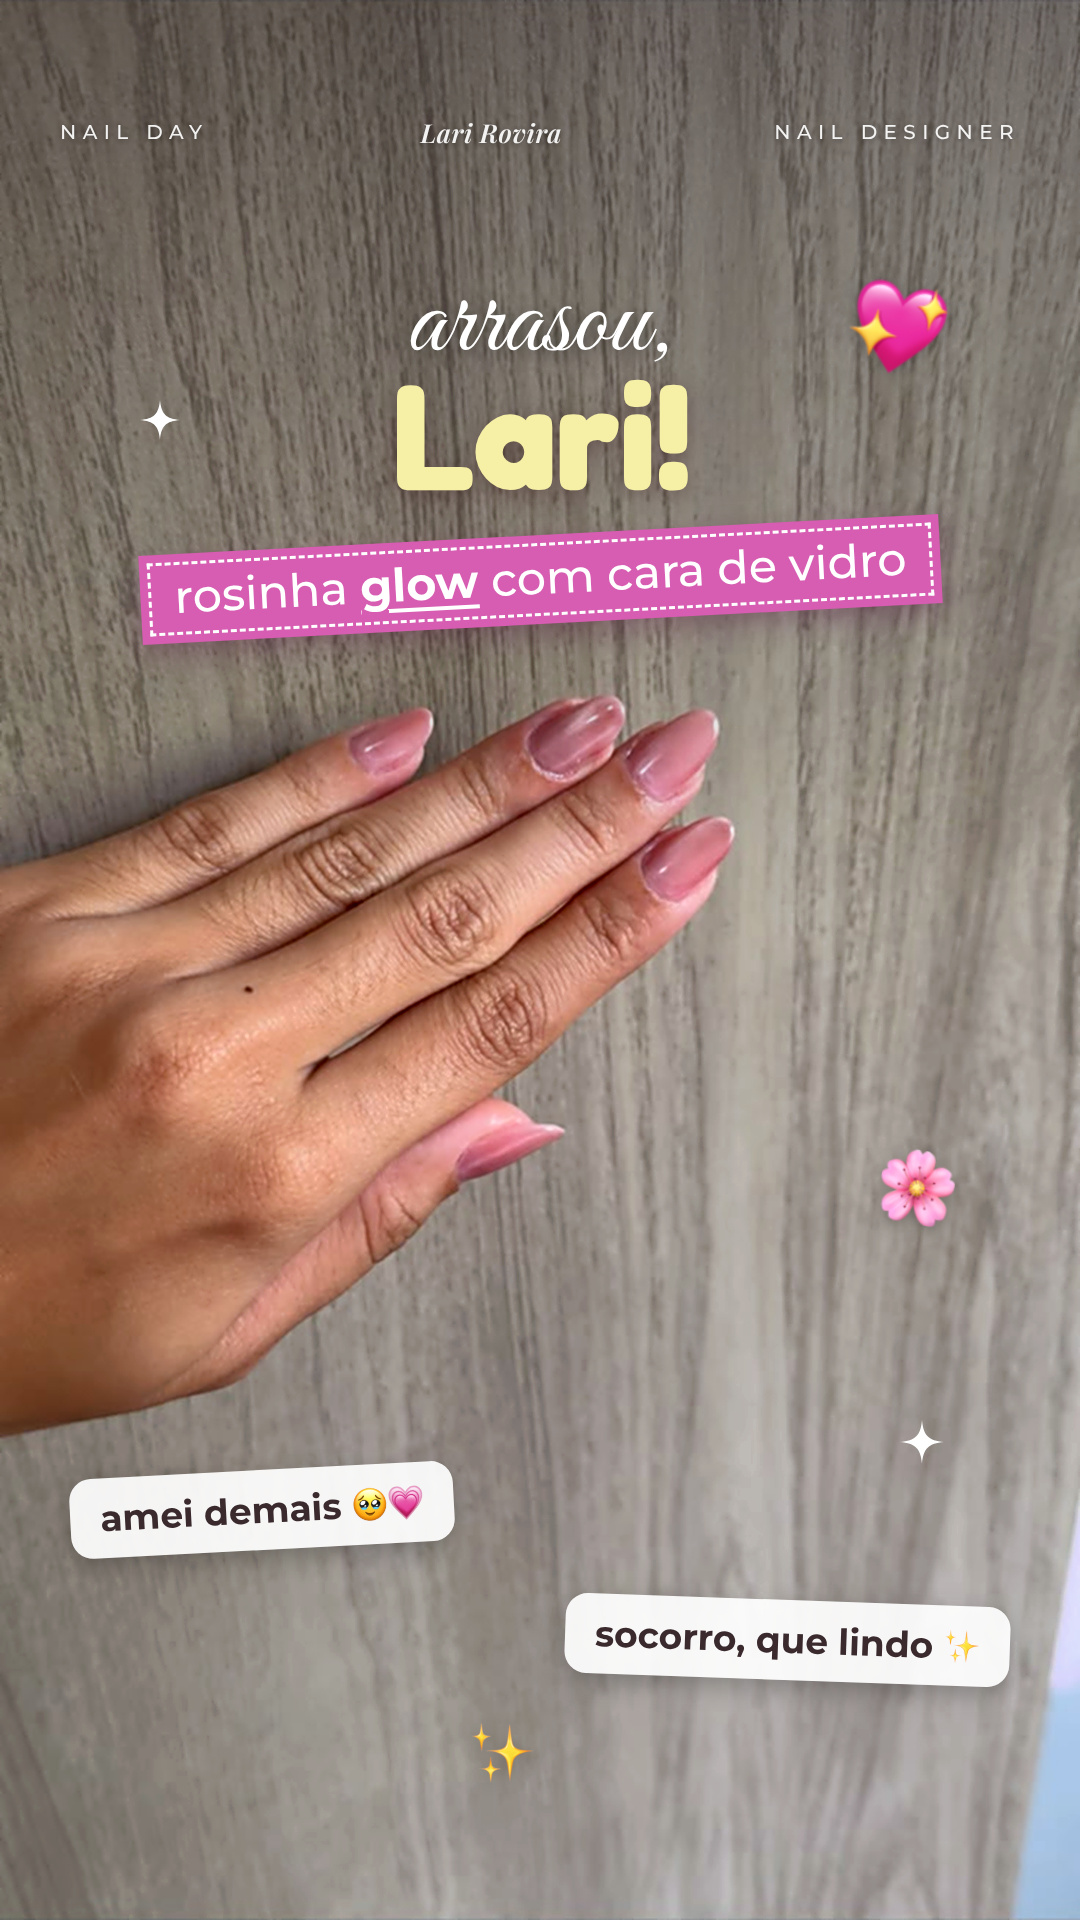
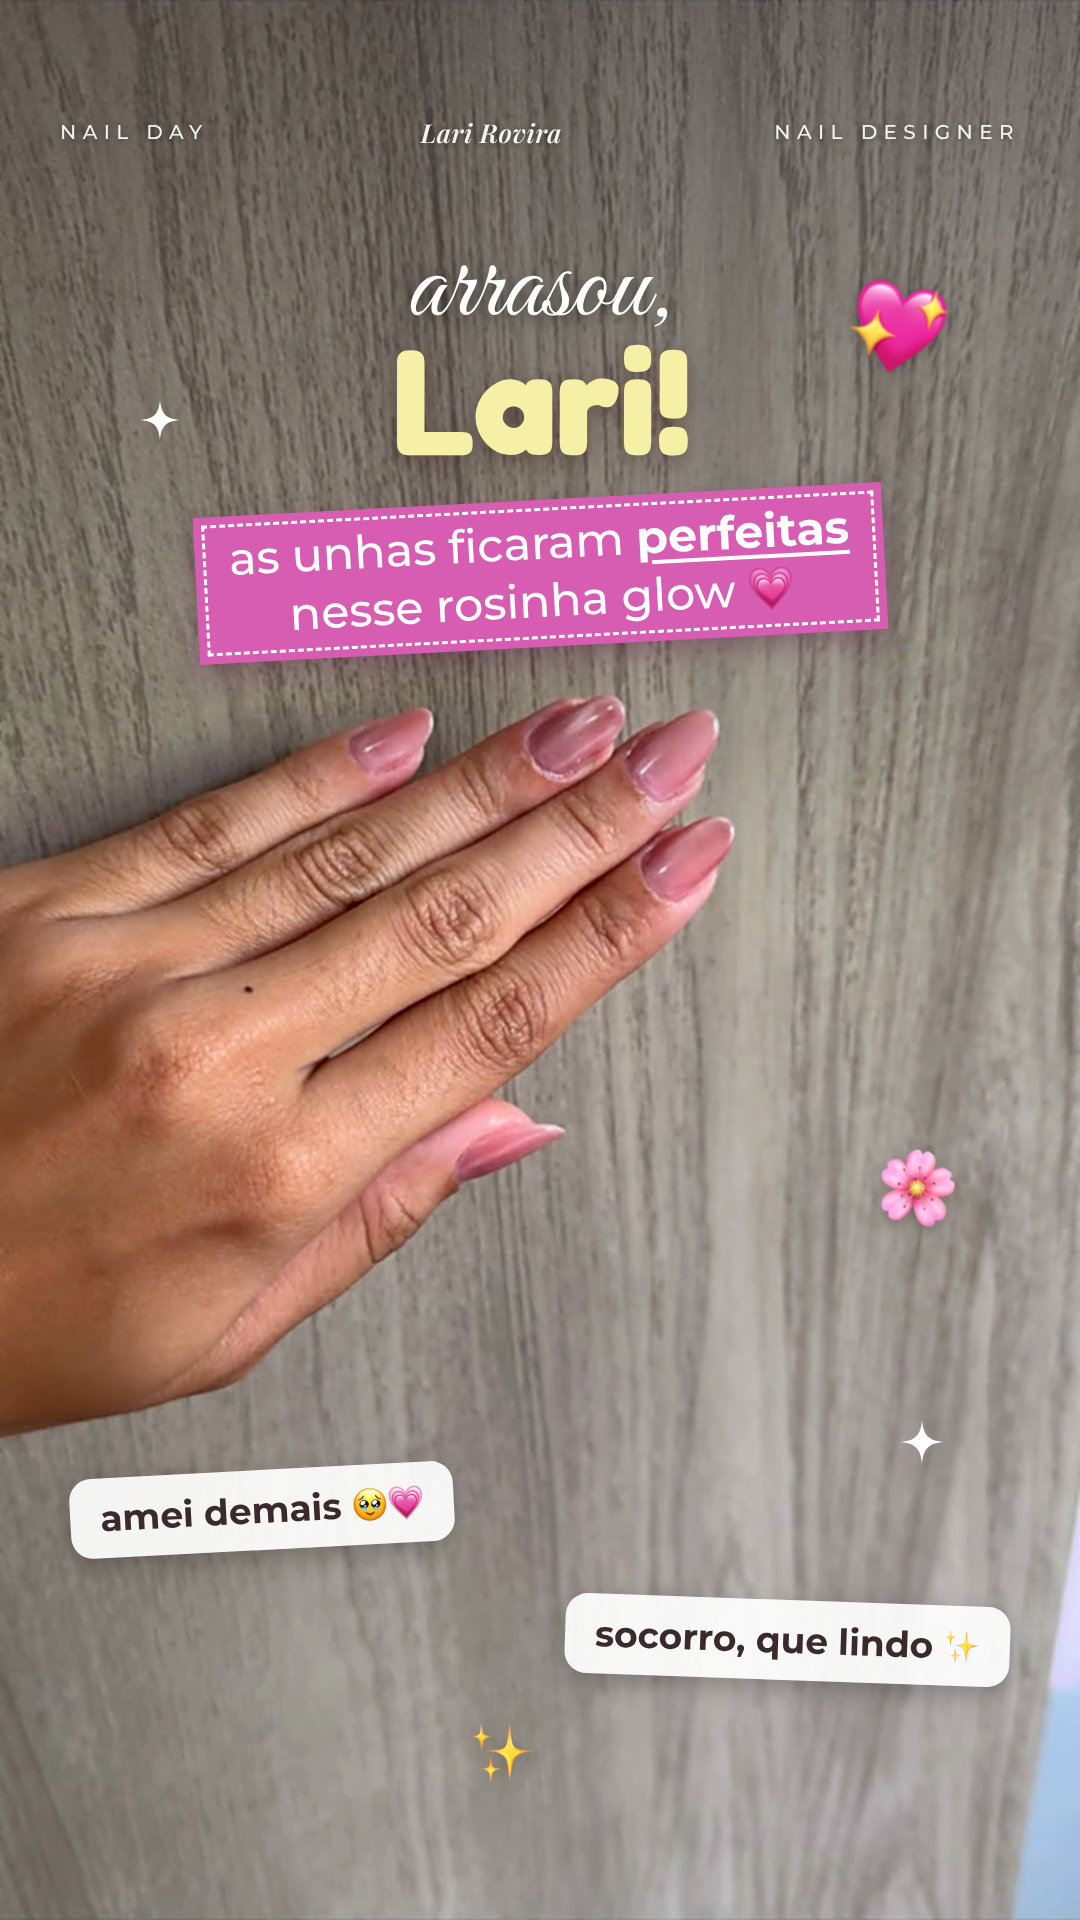
Stories da Lari: 'em processo...' nos stories 3 e 4 e nova frase no final
Claude-Session: https://claude.ai/code/session_01RGHwyEMisYcbWxENQ6sEk7

Changed region(s): [[0.1222, 0.125, 0.8861, 0.3438]]

diff --git a/stories/lari-nail-day/fonte/stories.html b/stories/lari-nail-day/fonte/stories.html
@@ -25,5 +25,7 @@ body{background:#111}
 .chip i{font-style:normal;color:#D65DB1}
 .e{height:1em;width:1em;vertical-align:-.14em;display:inline-block}
 .em{position:absolute;filter:drop-shadow(0 4px 8px rgba(0,0,0,.25))}
+.proc{display:inline-block;font:500 50px Montserrat;color:#fff;background:rgba(255,255,255,.18);backdrop-filter:blur(10px);border:2px solid rgba(255,255,255,.55);padding:20px 44px;border-radius:60px;text-shadow:0 2px 10px rgba(0,0,0,.35)}
+.tag{line-height:1.25}
 </style></head><body>
 <svg width="0" height="0" style="position:absolute"><defs><path id="st" d="M50 0C53 35 65 47 100 50C65 53 53 65 50 100C47 65 35 53 0 50C35 47 47 35 50 0Z"/></defs></svg>

diff --git a/stories/lari-nail-day/fonte/build2.py b/stories/lari-nail-day/fonte/build2.py
@@ -1,7 +1,7 @@
 import sys
 S=sys.argv[1]
 star=lambda x,y,s:f'<svg class="star" style="left:{x}px;top:{y}px;width:{s}px;height:{s}px" viewBox="0 0 100 100"><use href="#st" fill="#fff"/></svg>'
-E={'💗':'1f497','✨':'2728','⭐':'2b50','🌟':'1f31f','💖':'1f496','🥹':'1f979','🎀':'1f380','🌸':'1f338','☕':'2615','💅':'1f485','👍':'1f44d','💫':'1f4ab','🤍':'1f90d','🥰':'1f970','💕':'1f495','🙌':'1f64c'}
+E={'💗':'1f497','✨':'2728','⭐':'2b50','🌟':'1f31f','💖':'1f496','🥹':'1f979','🎀':'1f380','🌸':'1f338','☕':'2615','💅':'1f485','👍':'1f44d','💫':'1f4ab','🤍':'1f90d','🥰':'1f970','💕':'1f495','🙌':'1f64c','🛠':'1f6e0','⏳':'23f3'}
 def t(s):
     for k,v in E.items(): s=s.replace(k,f'<img class="e" src="emoji/{v}.png">')
     return s
@@ -14,14 +14,10 @@ stories=[
  ('05-poa-aprovado','top',t('''<div class="blk" style="top:240px"><div class="script">1 mês depois</div><div class="disp m">nota 10 👍</div></div>
   <div class="blk" style="top:1420px"><div class="tag">foi assim que cheguei pro <u>retorno</u></div>
   <div class="imp">AINDA LINDAS 🥹✨</div></div>''')+star(80,300,48)+em('🌟',930,240,74,10)+em('💗',70,560,70,-12)),
- ('02-preparo','bot',t('''<div class="blk" style="top:1190px"><div class="script">paciência</div><div class="disp m">é o segredo</div>
-  <div class="tag">cada cutícula no <u>tempinho dela</u></div>
-  <div class="imp">SEM PRESSA, SEM DOR 🤍</div></div>''')+star(120,1200,52)+em('✨',900,1150,80)+em('💗',880,1690,66,14)),
- ('03-esmaltacao','bot',t('''<div class="blk" style="top:1170px"><div class="script">atenção</div><div class="disp m">aos detalhes</div>
-  <div class="tag">ela escuta, explica e <u>capricha</u></div>
-  <div class="imp">ATENDIMENTO DE AMIGA 💗</div></div>''')+star(950,1240,56)+em('⭐',80,1150,70,-8)+em('🎀',90,1680,70,-6)),
- ('04-resultado-jelly','top',t('''<div class="blk" style="top:270px"><div class="script">arrasou,</div><div class="disp">Lari!</div>
-  <div class="tag">rosinha <u>glow</u> com cara de vidro</div></div>
+ ('02-preparo','bot',t('''<div class="blk" style="top:1540px"><div class="proc">em processo... 🛠💅</div></div>''')+star(160,1480,44)+em('✨',880,1470,64)),
+ ('03-esmaltacao','bot',t('''<div class="blk" style="top:1540px"><div class="proc">em processo... ⏳💅</div></div>''')+star(900,1480,48)+em('💗',140,1470,60,-10)),
+ ('04-resultado-jelly','top',t('''<div class="blk" style="top:235px"><div class="script">arrasou,</div><div class="disp">Lari!</div>
+  <div class="tag">as unhas ficaram <u>perfeitas</u><br>nesse rosinha glow 💗</div></div>
   <div class="chip" style="left:70px;top:1470px;transform:rotate(-3deg)">amei demais 🥹💗</div>
   <div class="chip" style="right:70px;top:1600px;transform:rotate(2deg)">socorro, que lindo ✨</div>''')+star(140,400,40)+em('💖',850,280,96,12)+em('✨',470,1720,64)+em('🌸',880,1150,74,10)+star(900,1420,44)),
 ]

diff --git a/stories/lari-nail-day/ROTEIRO.md b/stories/lari-nail-day/ROTEIRO.md
@@ -7,9 +7,9 @@ O tom é natural, de cliente que amou o atendimento, sem chamada para agendament
 |---|---|---|---|---|---|
 | 1 | Café e mimo na mesa | *começou o* | **NAIL DAY** | dia de **retorno** com cafezinho ☕ | 💗 ✨ 🌸 |
 | 2 | Unhas de poá, 1 mês depois | *1 mês depois* | **NOTA 10 👍** | foi assim que cheguei pro **retorno** | AINDA LINDAS 🥹✨ |
-| 3 | Preparo da cutícula | *paciência* | **É O SEGREDO** | cada cutícula no **tempinho dela** | SEM PRESSA, SEM DOR 🤍 |
-| 4 | Esmaltação | *atenção* | **AOS DETALHES** | ela escuta, explica e **capricha** | ATENDIMENTO DE AMIGA 💗 |
-| 5 | Resultado rosa jelly | *arrasou,* | **LARI!** | rosinha **glow** com cara de vidro | balões "amei demais 🥹💗" e "socorro, que lindo ✨" |
+| 3 | Preparo da cutícula | (sem texto) | | | balão "em processo... 🛠💅" |
+| 4 | Esmaltação | (sem texto) | | | balão "em processo... ⏳💅" |
+| 5 | Resultado rosa jelly | *arrasou,* | **LARI!** | as unhas ficaram **perfeitas** nesse rosinha glow 💗 | balões "amei demais 🥹💗" e "socorro, que lindo ✨" |
 
 ## Dicas na hora de postar
 - Marque o @ da Lari com o sticker de menção no story 4 ou no 5.
